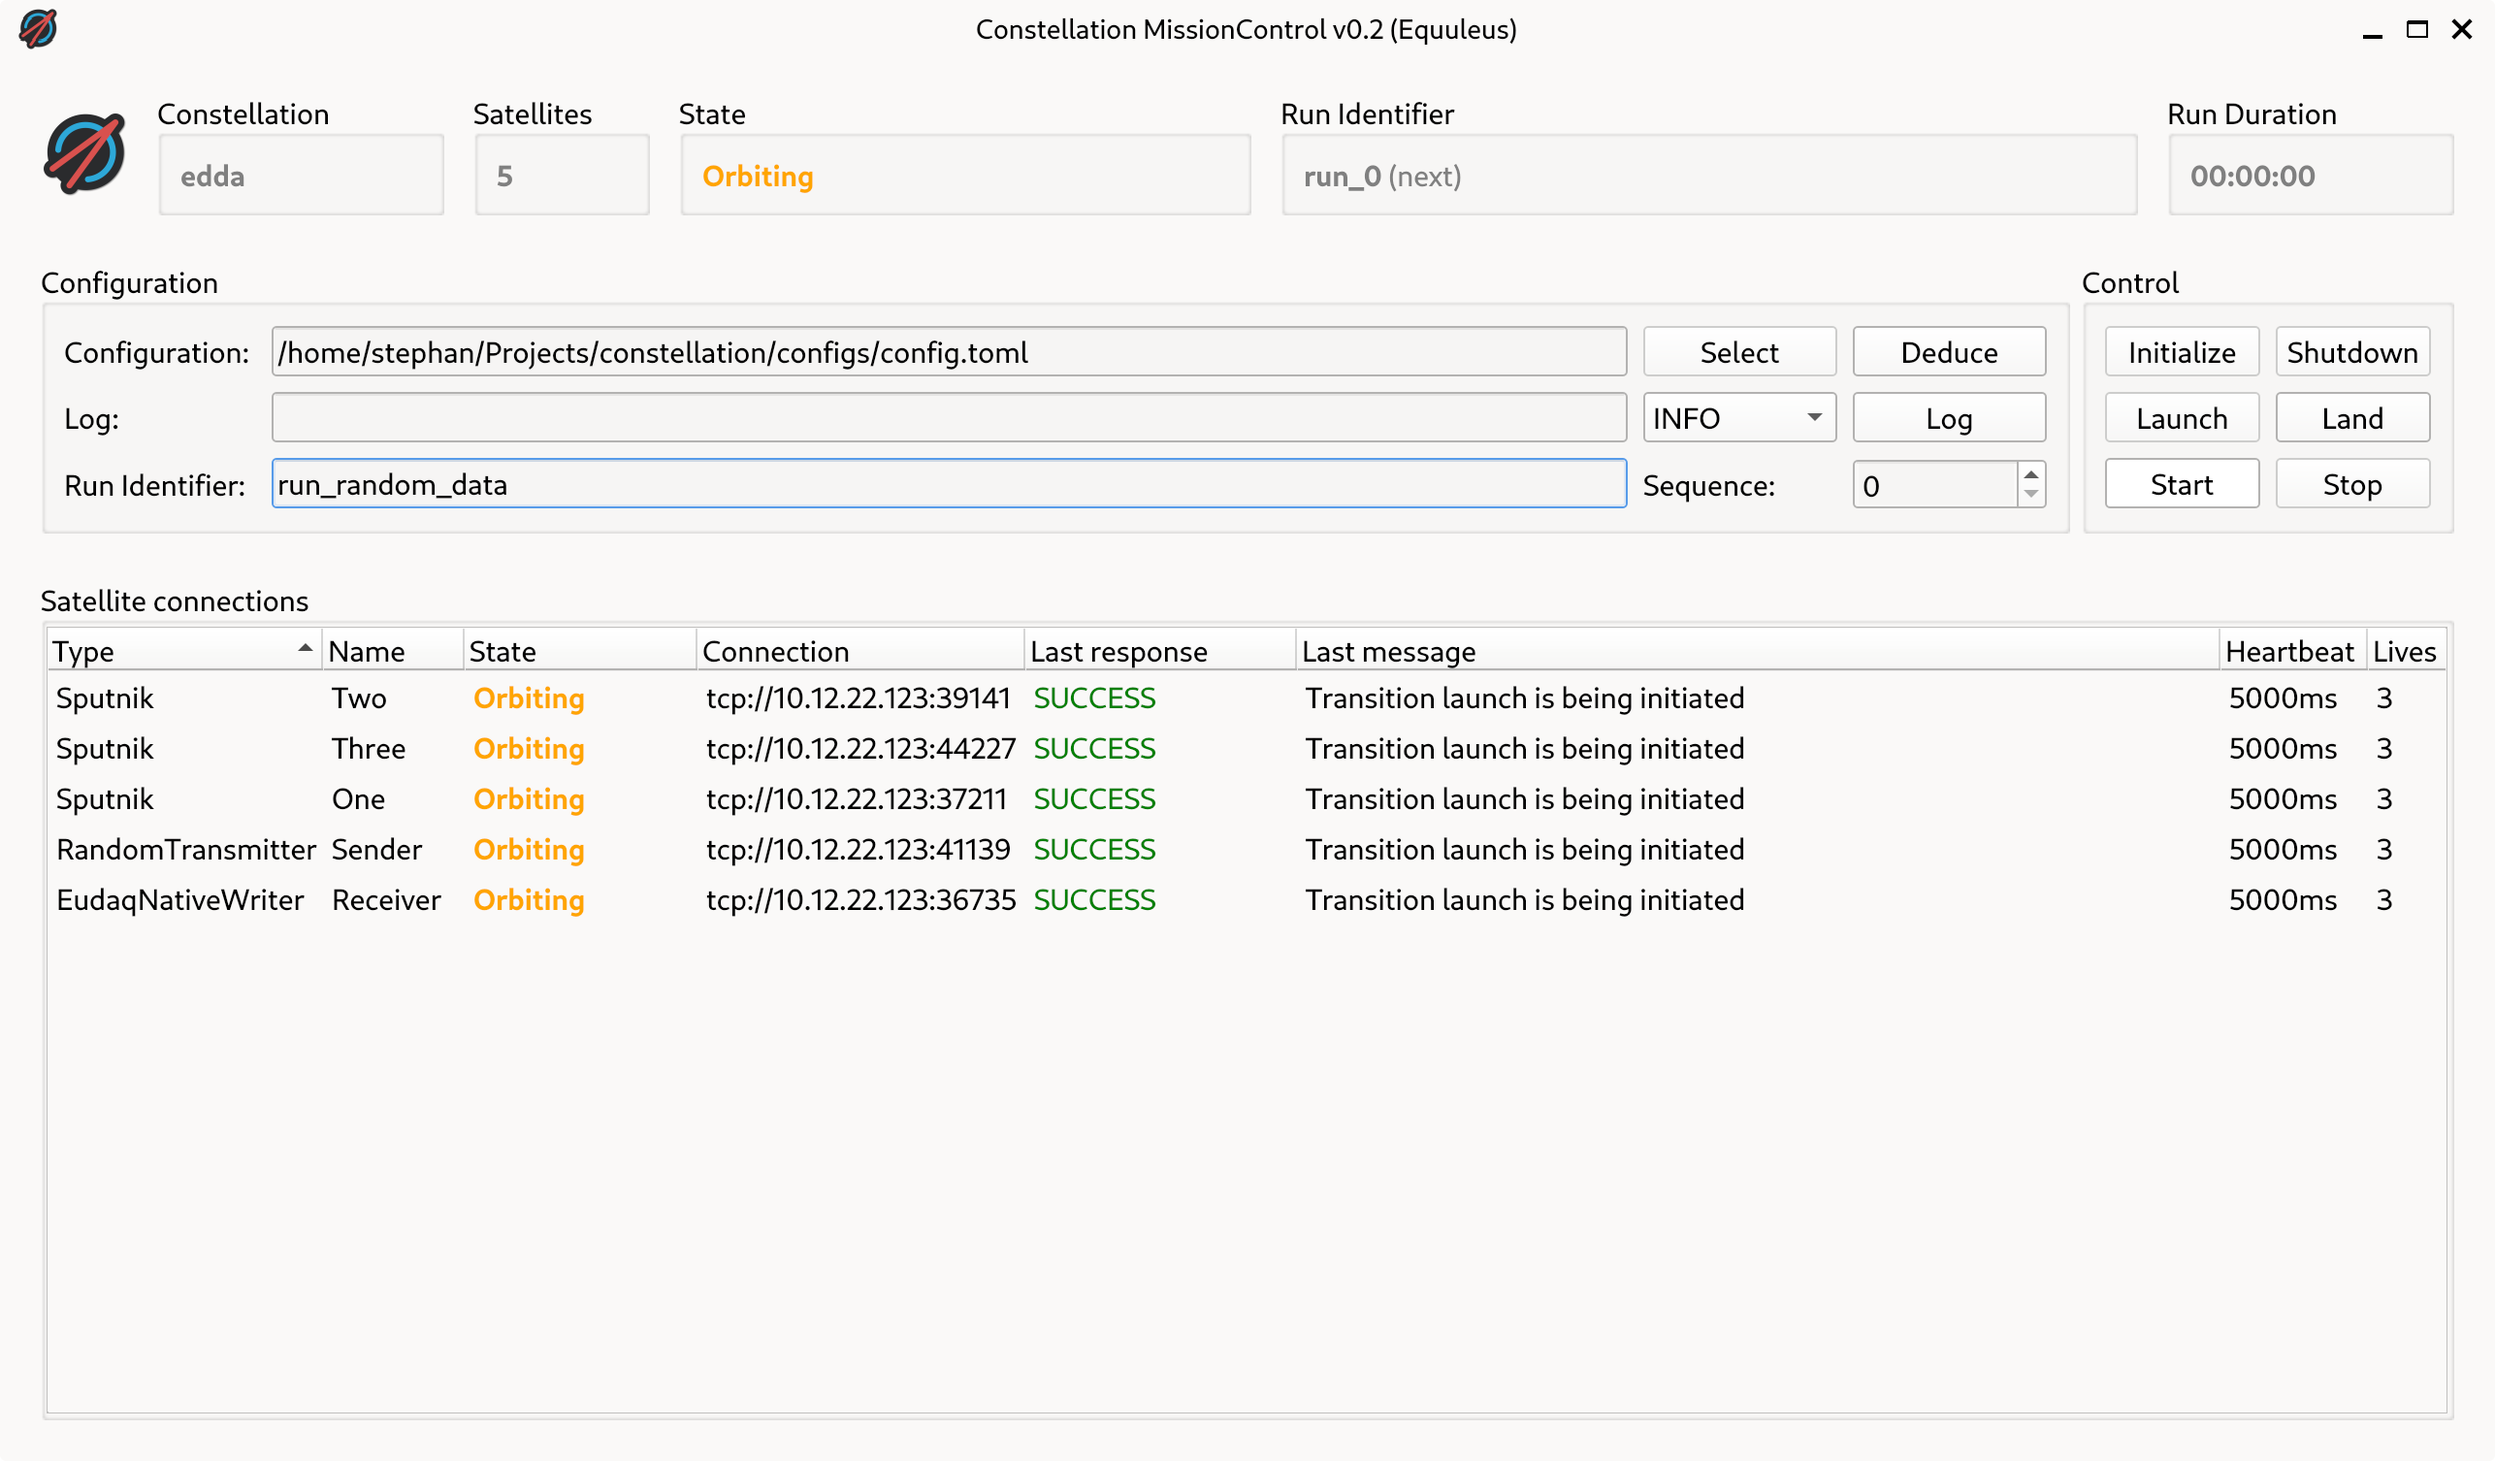
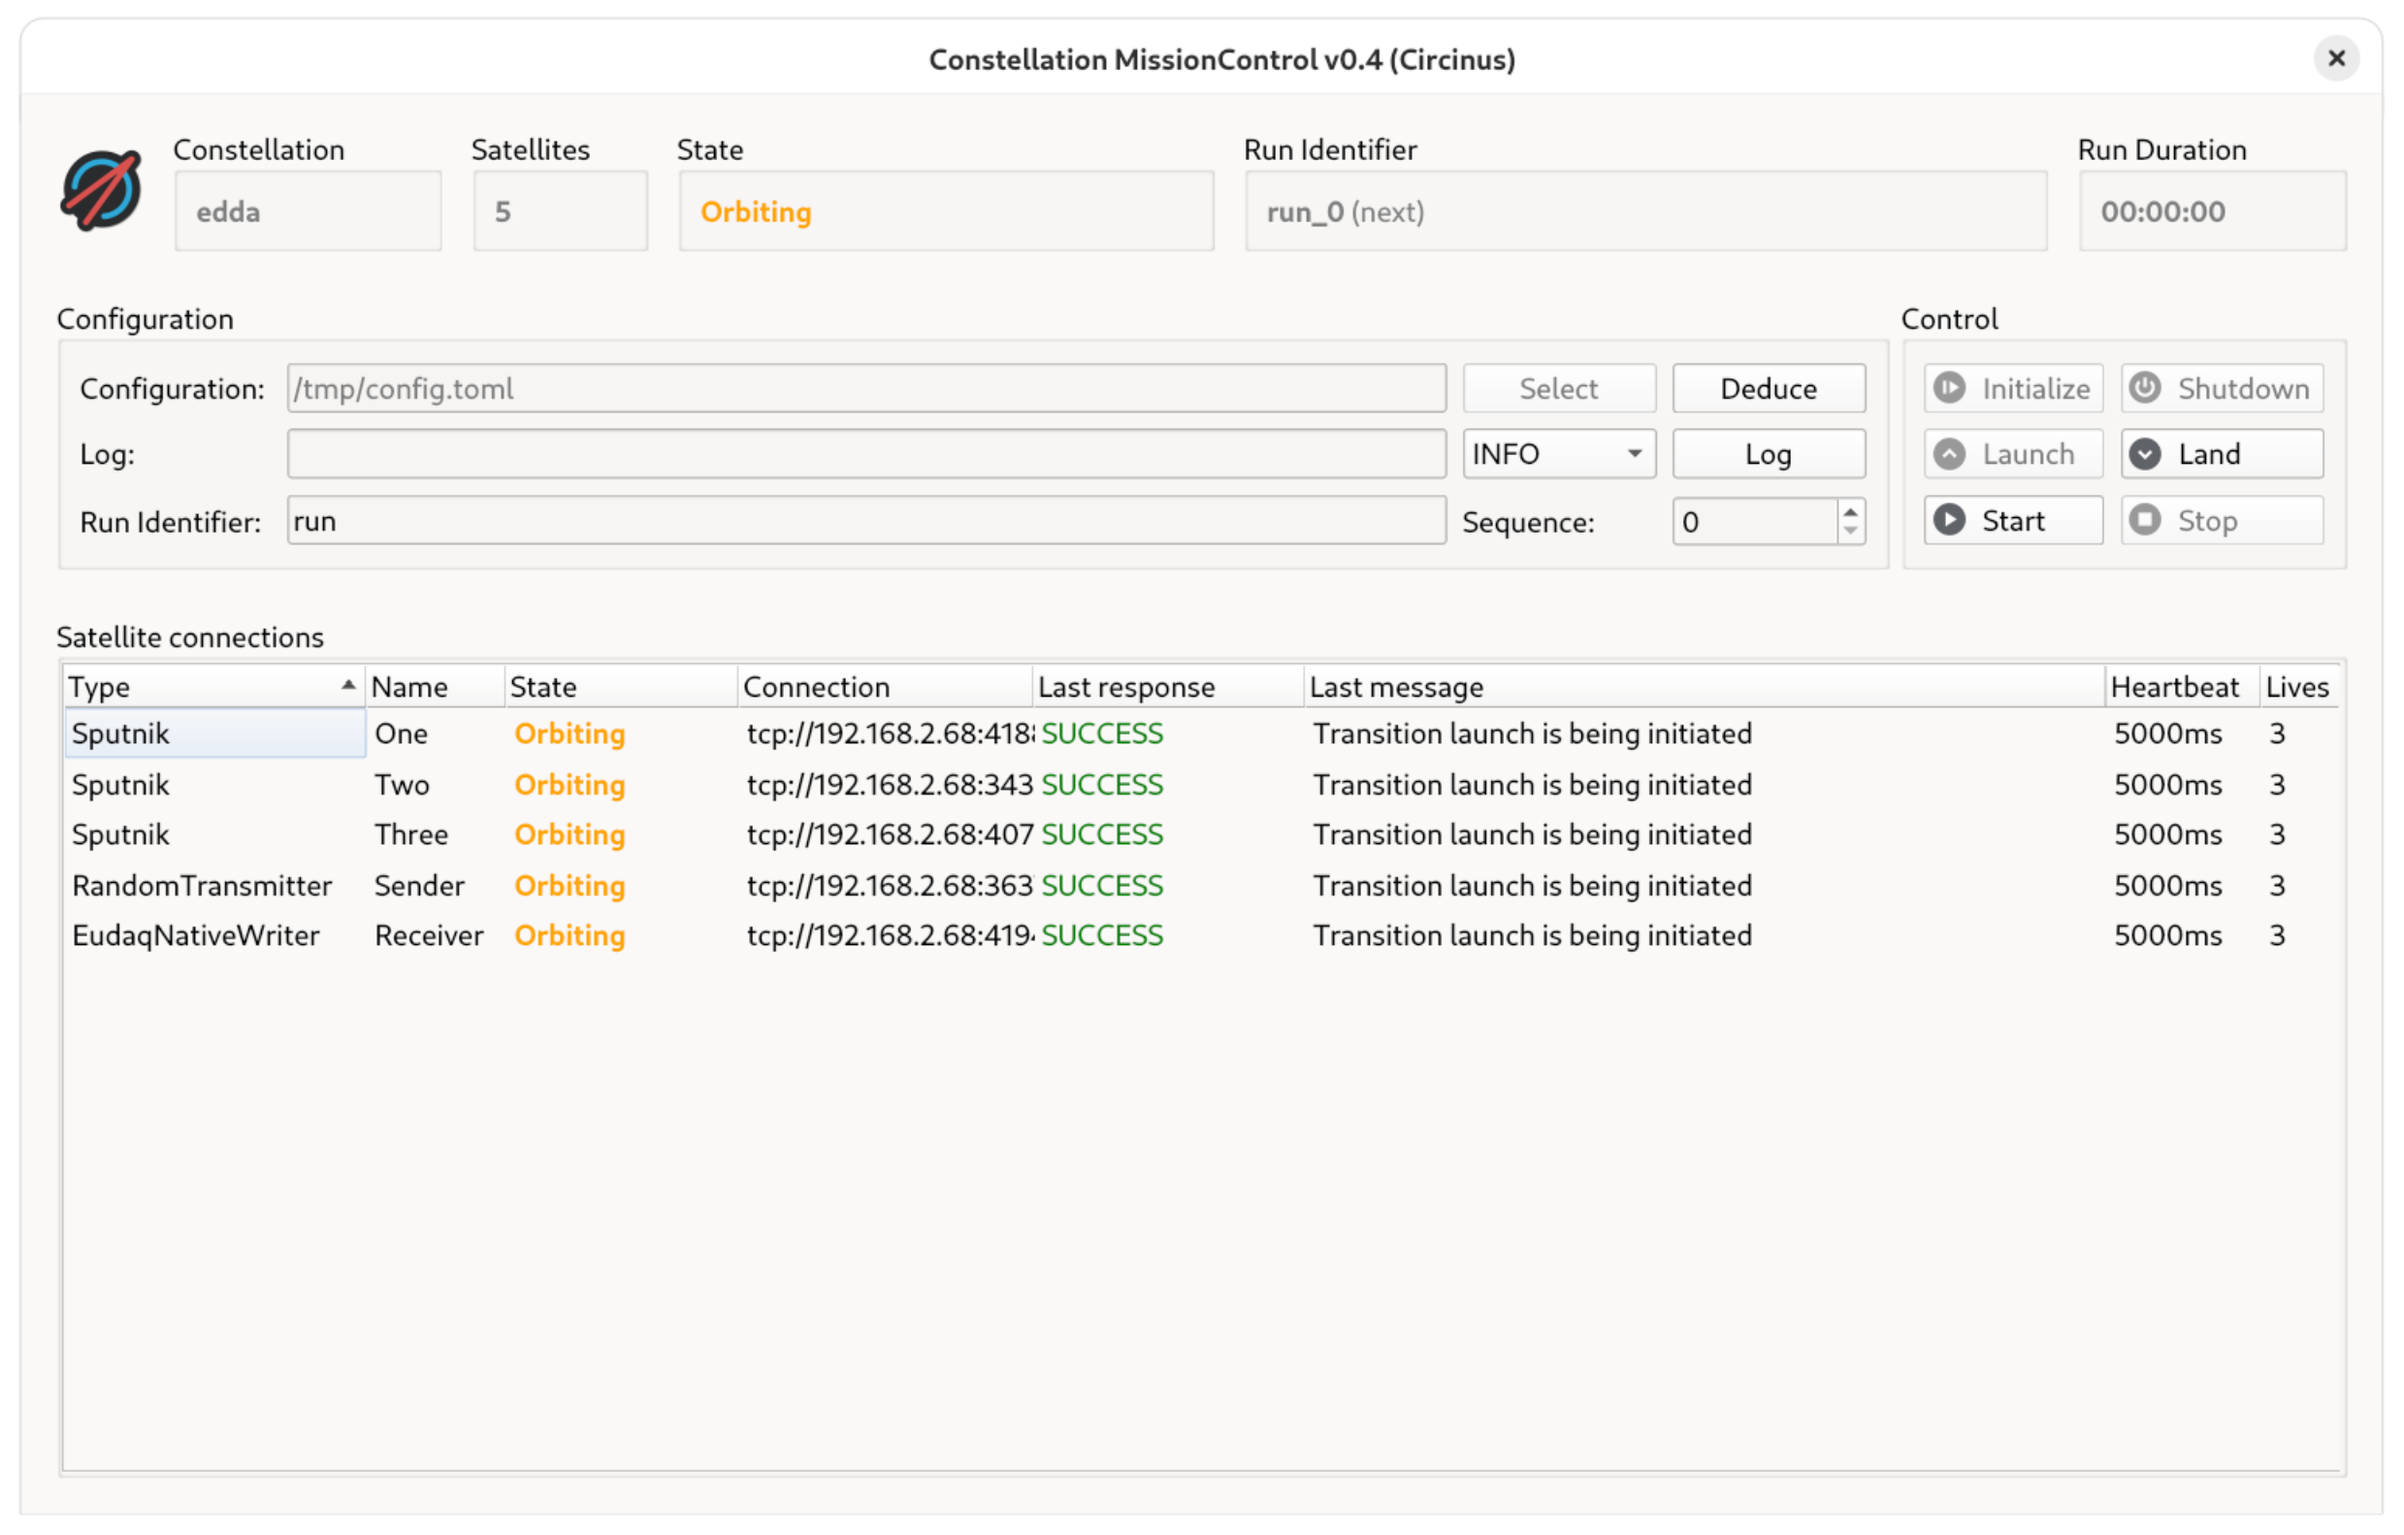
Docs: Update MissionControl screenshots & text

diff --git a/docs/operator_guide/tutorials/missioncontrol.md b/docs/operator_guide/tutorials/missioncontrol.md
@@ -1,4 +1,4 @@
-# Controlling with MissionControl
+# Using MissionControl
 
 MissionControl is a graphical Controller for Constellation. This tutorial demonstrates how to use MissionControl to control multiple
 satellites, including initialization and taking data.
@@ -64,8 +64,8 @@ Make sure to create the output directory for the `EudaqNativeWriter`.
 
 The configuration file can be selected with the {bdg-primary}`Select` button. Then, the satellites can be initialized using
 the {bdg-primary}`Initialize` button. Once the button is clicking, a warning will appear that `Sputnik.Three` is not
-mentioned explicitly in the configuration - this is a measure to prevent typos in configuration files. However in this case,
-the initialization can be continued by clicking {bdg-primary}`Ok`.
+mentioned explicitly in the configuration - this is a measure to prevent typing errors in configuration files. However in
+this case, the initialization can be continued by clicking {bdg-primary}`Ok`.
 
 ```{hint}
 Any satellites not explicitly mentioned will still be initialized. The configuration is generated from the global
@@ -77,12 +77,13 @@ After the initializing, all satellites besides the `EudaqNativeWriter` are now i
 initialization for the `EudaqNativeWriter` satellite failed, which resulted in the satellite being in the
 {bdg-secondary}`ERROR` state.
 
-Before this will be fixed, it is worth taking a look at the top part of the window. Besides the information about the group
-and number of connected satellites, there is also a state information. This includes the lowest state of all satellites.
-If the state is "mixed", meaning that not all satellites have the same state, the lowest state is followed by "≊".
+Before moving on to rectifying this issue, it is worth taking a look at the top part of the window. Besides the information
+about the group and number of connected satellites, there is also a state information. This includes the lowest state of all
+satellites. If the state is "mixed", meaning that not all satellites have the same state, the lowest state is followed by "≊".
 
 ```{seealso}
-More details on the finite state machine can be found in the [satellite chapter](../concepts/satellite.md#the-finite-state-machine).
+More details on the Constellation finite state machine and its different states and transitions can be found in the
+[satellite chapter](../concepts/satellite.md#the-finite-state-machine).
 ```
 
 ```{figure} missioncontrol_init_first.png
@@ -125,15 +126,15 @@ same configuration file again.
 With the amended configuration, all satellites can be initialized properly by clicking {bdg-primary}`Initialize` again.
 
 ```{tip}
-Instead of initializing all satellites, it also possible to just initialize the satellite that failed to initialize
-More details on controlling single satellites are given later in the tutorial in
+Instead of initializing all satellites, it also possible to just initialize the particular satellite which went to {bdg-secondary}`ERROR` state.
+More details on controlling single satellites are provided later in this tutorial in the section
 [Controlling Individual Satellites](#controlling-individual-satellites).
 ```
 
-## Taking Data
+## Recording Data
 
-The next step is to start taking some data. To do this, the satellites first need to launched to the {bdg-secondary}`ORBIT`
-state. In this state, the configuration send during the initialization is actually applied such that the satellites are ready
+The next step is to start recording data. In order to do this, the satellites first need to launched to the {bdg-secondary}`ORBIT`
+state. In this state, the configuration send during the initialization is fully applied such that the satellites are ready
 for immediate data taking. The satellites can be launched by clicking the {bdg-primary}`Launch` button.
 
 ```{figure} missioncontrol_orbit.png
@@ -141,12 +142,14 @@ MissionControl main window after launching
 ```
 
 Data taking is organized in "runs": when data taking is started, a new run begins, and a run ends when data taking is
-stopped. In Constellation, each run has a run identifier, which can be given in the control section of the MissionControl
-window. Next to the run identifier field is a run sequence counter. This number is appended to the run identifier and
-increased every time a run ended. In the top right of the MissionControl window the current or next run identifier is shown.
+stopped. In Constellation, each run has a run identifier, a free-form string identifying this particular measurement.
+In MissionControl, this run identifier is composed of two parts: a free-text identifier which can be provided in the control
+section of the MissionControl window, and a run sequence counter which can be found next to the run identifier field.
+This sequence number is automatically incremented every time a run ended. In the top right of the MissionControl window,
+the current or next run identifier is shown.
 
 ```{seealso}
-More information on runs and their properties can be found in the [Data Processing section](../concepts/data.md) of this guide.
+More information on Constellation data concepts, runs and their properties can be found in the [Data Processing section](../concepts/data.md) of this guide.
 ```
 
 A new run can be started by clicking the {bdg-primary}`Start` button.
@@ -155,28 +158,28 @@ A new run can be started by clicking the {bdg-primary}`Start` button.
 MissionControl main window in RUN state
 ```
 
-After a run has started, the state switched to {bdg-secondary}`RUN` and the run duration timer in the top right starts.
-While data is being taken, the controller can be closed without any impact on the data taking since the satellites operate
+After a run has started, the state switches to {bdg-secondary}`RUN` and the run duration timer in the top right starts counting the time the measurement is already running.
+While data is being recorded, the controller can be closed without impact on the data taking since the satellites operate
 autonomously. This allows closing and re-opening of user interfaces such as the controller without interrupting data taking
 or even taking down the entire Constellation. When the controller is
-restarted, the run identifier and run duration are fetched from the Constellation automatically.
+restarted, the current run identifier as well as the run duration are retrieved from the Constellation automatically.
 
-The run can be stopped by clicking the {bdg-primary}`Stop` button. After this, the run sequence counter increases by one.
-To shutdown the satellites or change the configuration, the satellites need to be returned to the {bdg-secondary}`INIT`
+The run can be stopped by clicking the {bdg-primary}`Stop` button. Subsequently, the run sequence counter is incremented.
+To shutdown the satellites or to change the configuration, the satellites need to be returned to the {bdg-secondary}`INIT`
 state, which is done by clicking the {bdg-primary}`Land` button.
 
 ## Controlling Individual Satellites
 
-With MissionControl it is possible to control satellites individually when required. This is done by right-clicking on a
-satellite in the satellite list. The menu gives access to all commands that satellite offers.
+With MissionControl it is also possible to control satellites individually when required. Commands to individual satellites can be sent by right-clicking on the respective satellite from list, and by picking the desired command from the context menu. The menu provides access to all commands that satellite offers, and also
+allows to send custom commands which might not be publicly advertised by the satellite.
 
 ```{figure} missioncontrol_single_command.png
 Sending a command to a single satellite
 ```
 
-In this tutorial, the configuration of the `RandomTransmitter` satellite is fetched. After the command is sent, a window
-appears containing the "payload" of the answer, which in this case is a dictionary with the configuration. A satellite
-might also reply with a string, which is shown in as last message in the satellite list.
+In this tutorial, the configuration of the `RandomTransmitter` satellite is retrieved from the running instance.
+After the command is sent, a window appears containing the "payload" of the satellite response, which in this case is a
+dictionary with the configuration. A satellite might also reply with a string, which is shown in the *last message* column of in the satellite list.
 
 ```{figure} missioncontrol_single_response.png
 :scale: 50 %
@@ -188,8 +191,9 @@ Response window of the command
 Satellites are operating independently of any controller, and it is possible to start multiple controllers. This allows to
 quickly check in on the Constellation without the need to access a specific computer. However, controllers do not necessarily have
 access to the same configuration file. To alleviate this problem, the configuration of all satellites can be deduced from the
-Constellation itself. This can be achieved by clicking the {bdg-primary}`Deduce` button. This will store a configuration file
-with the following content:
+Constellation itself. This can be achieved by clicking the {bdg-primary}`Deduce` button.
+
+For the Constellation started and configured in this tutorial, this will store a configuration file with the following content:
 
 ```toml
 [satellites.Sputnik.One]
@@ -218,7 +222,7 @@ output_directory = '/tmp/test'
 ```
 
 ```{caution}
-This configuration contains all parameters, including default parameters. While giving identical results during
+This configuration contains all parameters, including parameters with default values. While giving identical results during
 initialization, it should not be seen as a replacement for the canonical configuration file which might be better grouped or
 potentially contains important comments.
 ```
